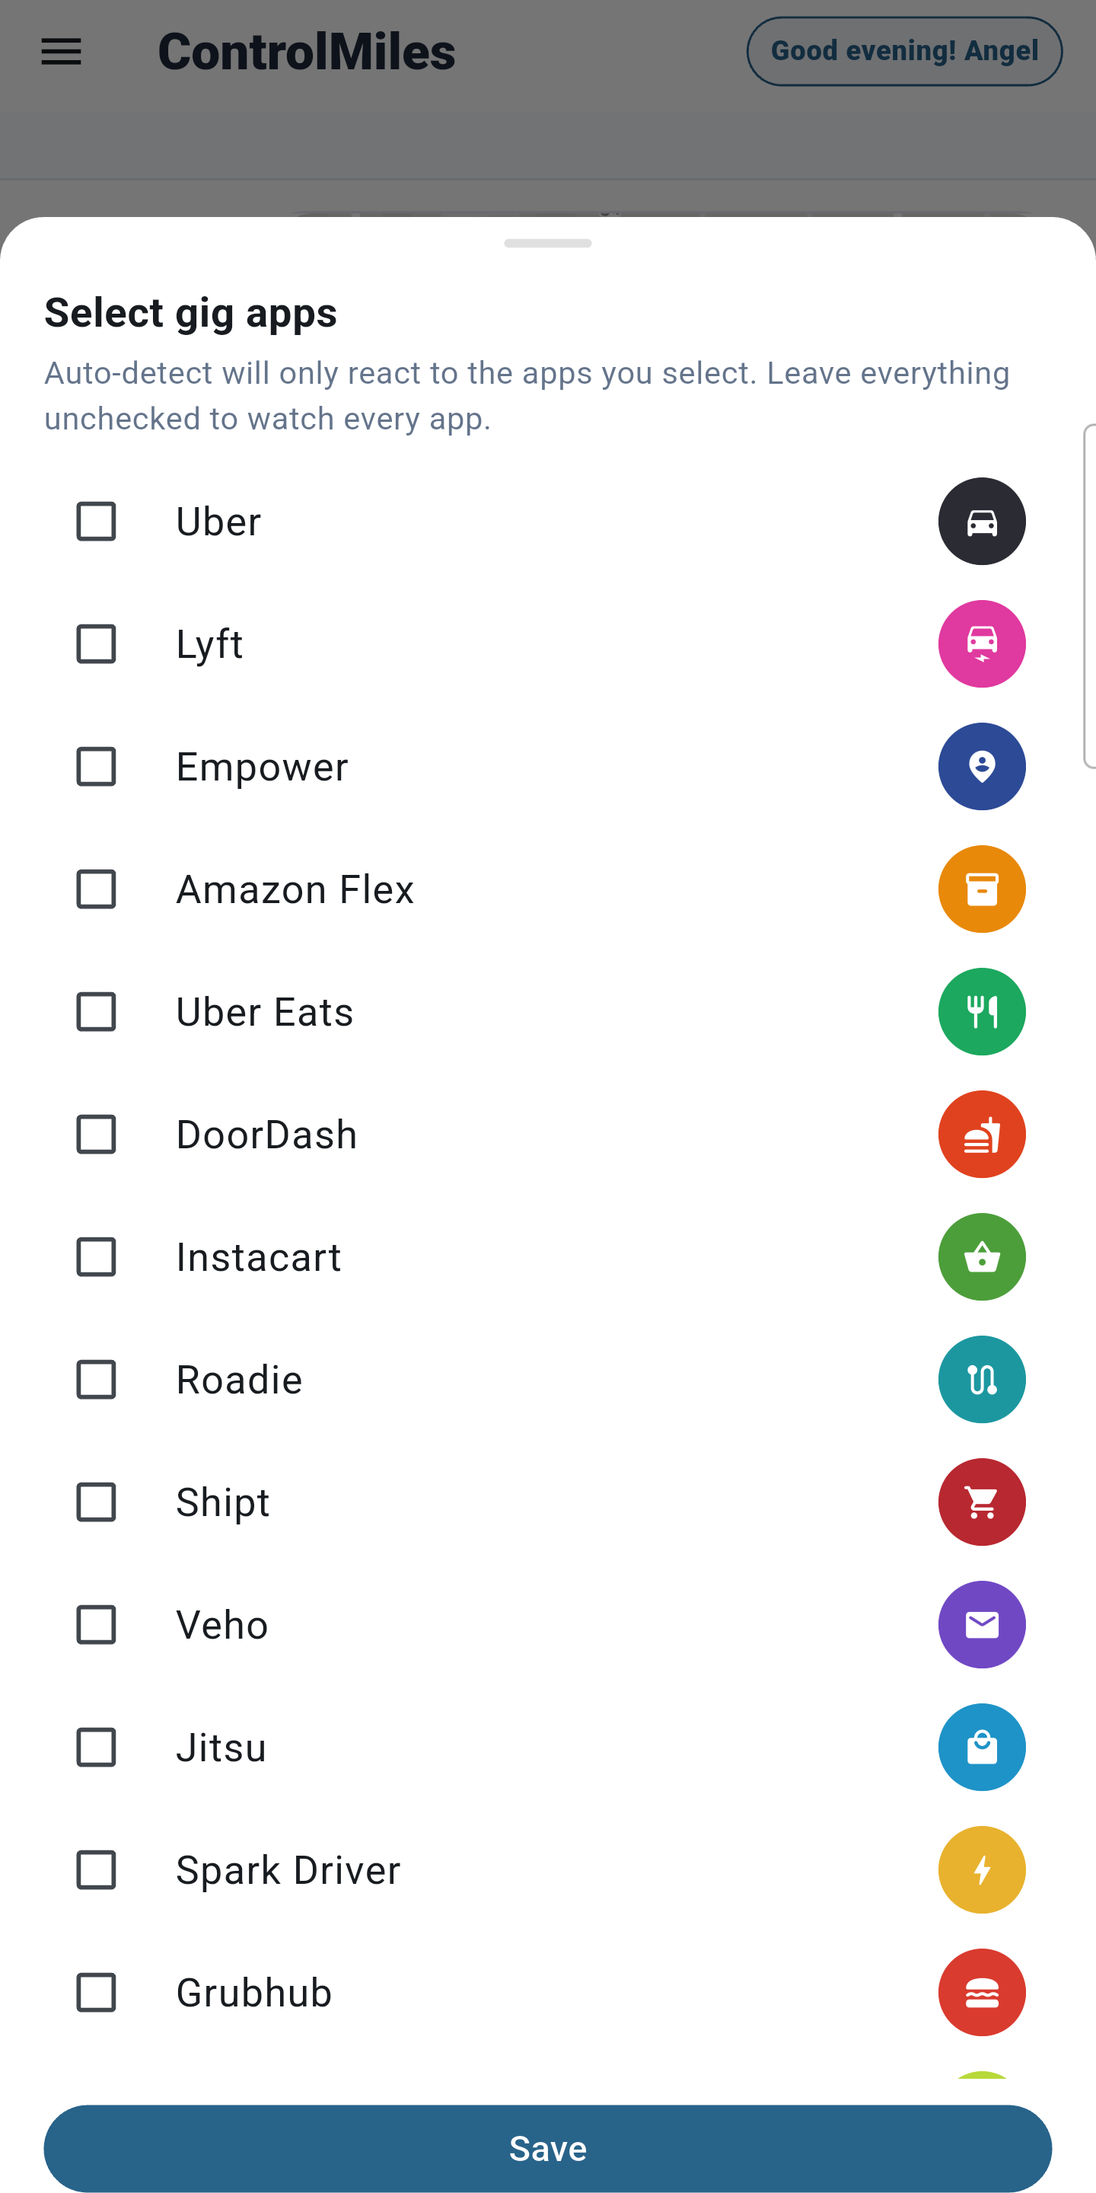
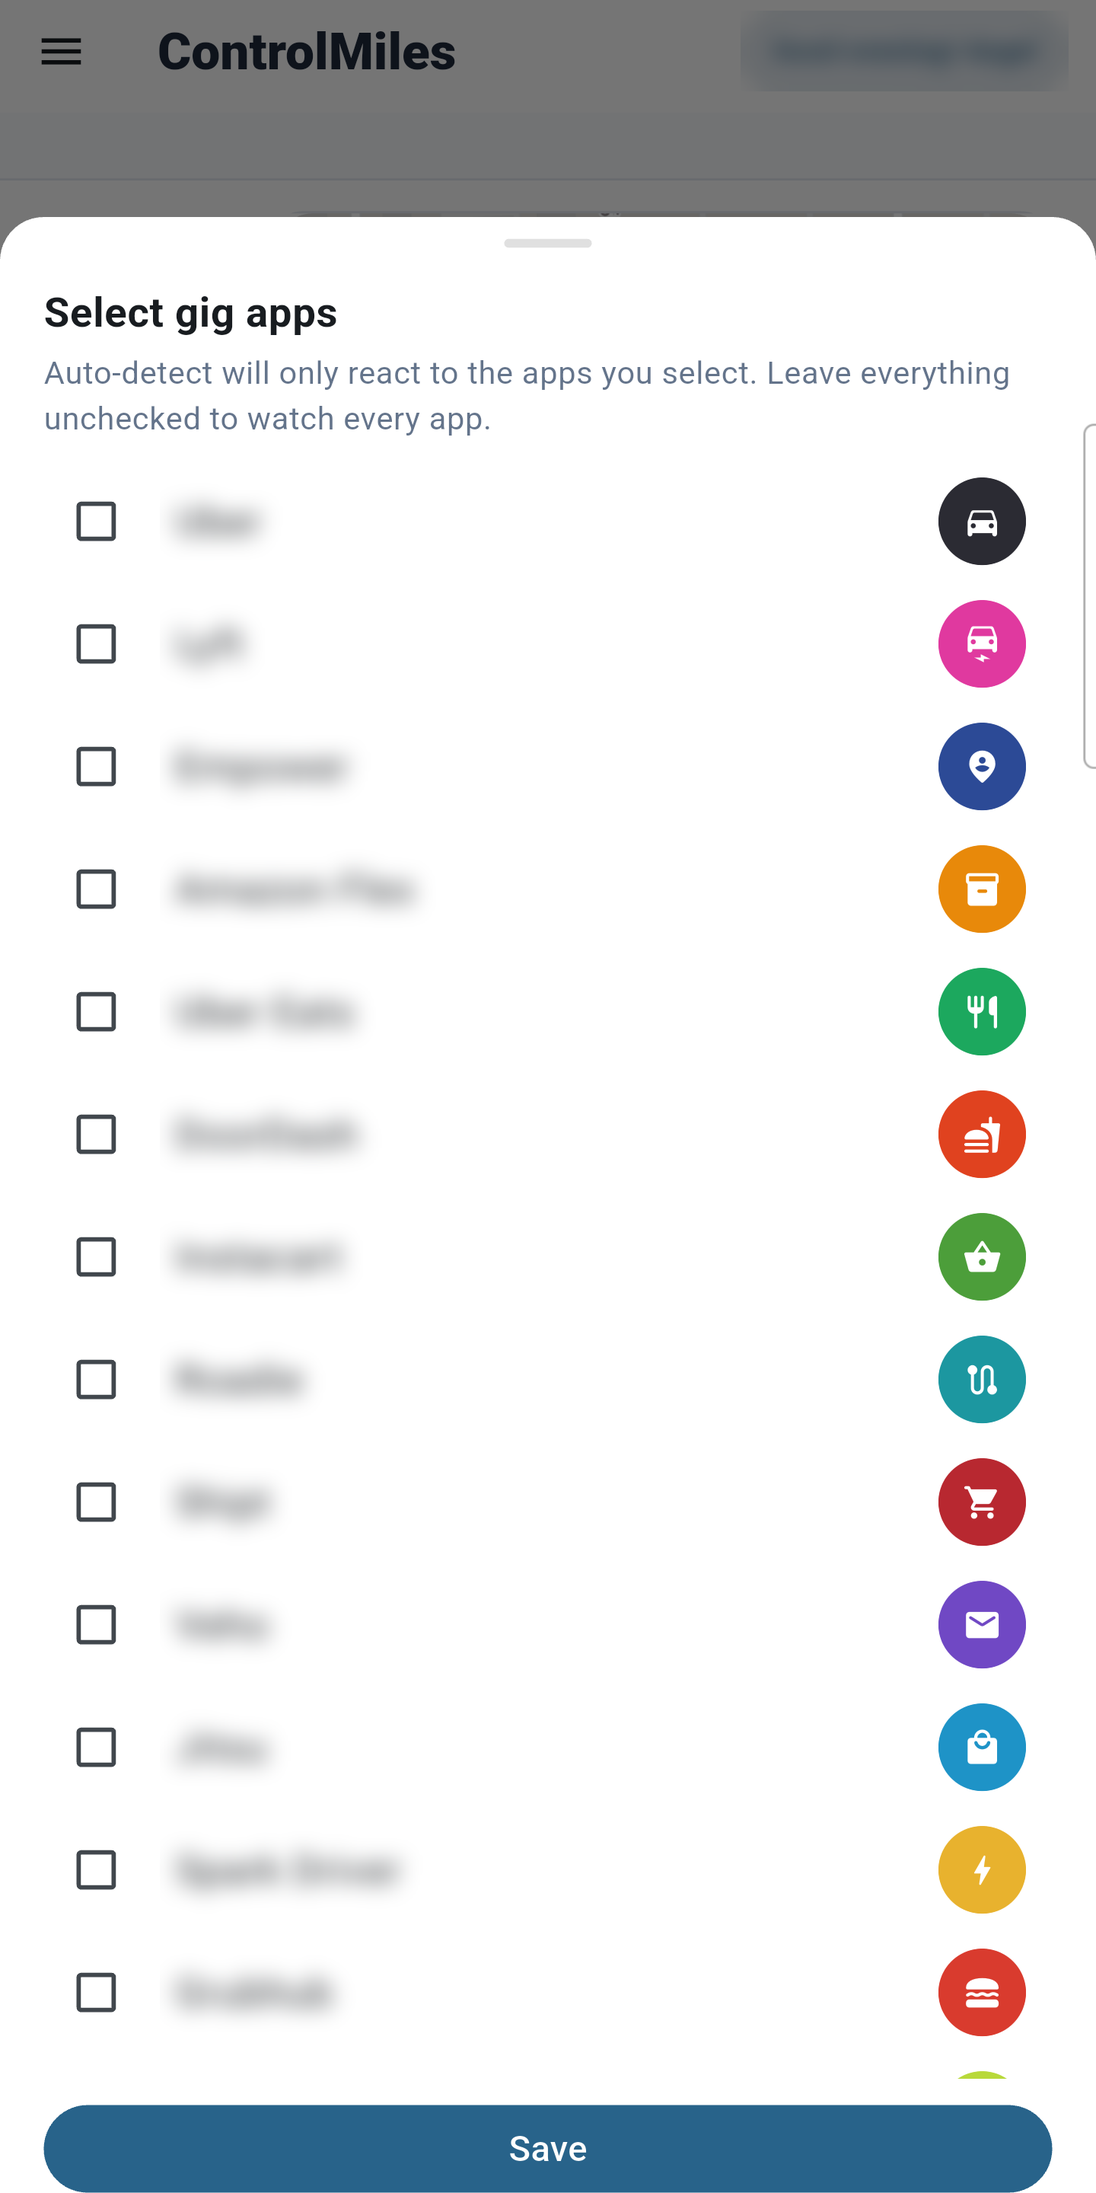
fix(report): odometer numbers agree (first reading vs current, odometer miles); 15-day trial on Basic and Premium (1.1.22+24); blurred Play screenshots

diff --git a/lib/services/report_service.dart b/lib/services/report_service.dart
@@ -71,6 +71,9 @@ class ReportService {
     // data predating this feature) falls back to the old per-session logic.
     double? periodCheckpointStart,
     double? periodCheckpointEnd,
+    // First odometer reading ever captured per vehicle (vehicle id ->
+    // value/date). The vehicles' own `odometer` is their CURRENT reading.
+    Map<String, ({double value, DateTime? at})> firstOdometerByVehicle = const {},
     // sessions.map_token per trip (2026-10-04): route images for the
     // "Trip routes" pages. Empty = no route pages.
     Map<String, String> mapTokens = const {},
@@ -209,7 +212,7 @@ class ReportService {
           _buildGlobalProfileSection(
               userName, userDisplayId, periodLabel, sortedSessions.length),
           pw.SizedBox(height: 24),
-          _buildVehicleInfo(vehiclesUsed),
+          _buildVehicleInfo(vehiclesUsed, firstOdometerByVehicle),
           pw.SizedBox(height: 24),
           _buildOdometerEvidence(
             totalMiles,
@@ -508,7 +511,10 @@ class ReportService {
   // es un solo vehículo; si el usuario cambió de vehículo activo dentro del
   // rango del reporte, se listan todos con su propio odómetro inicial.
   // ════════════════════════════════════════════════════════════
-  static pw.Widget _buildVehicleInfo(List<Vehicle> vehicles) {
+  static pw.Widget _buildVehicleInfo(
+    List<Vehicle> vehicles,
+    Map<String, ({double value, DateTime? at})> firstOdometerByVehicle,
+  ) {
     return pw.Column(
       crossAxisAlignment: pw.CrossAxisAlignment.start,
       children: [
@@ -533,7 +539,7 @@ class ReportService {
               children: [
                 for (var i = 0; i < vehicles.length; i++) ...[
                   if (i > 0) pw.Container(height: 0.5, color: PdfColors.grey300),
-                  _vehicleRow(vehicles[i]),
+                  _vehicleRow(vehicles[i], firstOdometerByVehicle[vehicles[i].id]),
                 ],
               ],
             ),
@@ -542,12 +548,21 @@ class ReportService {
     );
   }
 
-  static pw.Widget _vehicleRow(Vehicle vehicle) {
+  // BUG FIX (2026-10-05): this showed vehicles.odometer as "Starting
+  // odometer", but that column is updated with every reading -- it's the
+  // vehicle's CURRENT odometer (209,354 while ODOMETER EVIDENCE correctly
+  // started at 206,637). Now: the first reading ever captured in
+  // ControlMiles (with its date) and the current one, each labeled.
+  static pw.Widget _vehicleRow(Vehicle vehicle, ({double value, DateTime? at})? first) {
     final year = vehicle.year != null ? '${vehicle.year} ' : '';
     final name = vehicle.displayName.isEmpty ? '--' : vehicle.displayName;
-    final startOdo = vehicle.odometer != null
-        ? '${vehicle.odometer!.toStringAsFixed(1)} mi'
-        : '--';
+    final odoFmt = NumberFormat('#,##0.0');
+    final parts = <String>[
+      if (first != null)
+        'First odometer in ControlMiles: ${odoFmt.format(first.value)} mi'
+        '${first.at != null ? ' (${DateFormat('MM/dd/yyyy').format(first.at!.toLocal())})' : ''}',
+      if (vehicle.odometer != null) 'Current: ${odoFmt.format(vehicle.odometer!)} mi',
+    ];
 
     return pw.Padding(
       padding: const pw.EdgeInsets.symmetric(vertical: 10, horizontal: 12),
@@ -556,7 +571,7 @@ class ReportService {
         children: [
           pw.Text('$year$name',
               style: pw.TextStyle(fontSize: 11, fontWeight: pw.FontWeight.bold)),
-          pw.Text('Starting odometer (ControlMiles): $startOdo',
+          pw.Text(parts.isEmpty ? 'Odometer: --' : parts.join('   ·   '),
               style: const pw.TextStyle(fontSize: 9, color: PdfColors.grey600)),
         ],
       ),
@@ -576,11 +591,19 @@ class ReportService {
     double? periodCheckpointStart,
     double? periodCheckpointEnd,
   }) {
-    final start = (periodCheckpointStart ?? firstOdoSession?.startOdometerValue)
-            ?.toStringAsFixed(1) ?? '--';
-    final end   = (periodCheckpointEnd ?? lastOdoSession?.endOdometerValue)
-            ?.toStringAsFixed(1) ?? '--';
-    final total = totalMiles.toStringAsFixed(2);
+    // BUG FIX (2026-10-05): TOTAL showed the TRACKED trip miles ("units")
+    // between two odometer readings, which read as if the odometer moved
+    // 1,679 mi while START/END said 2,717. The odometer box now holds only
+    // odometer numbers (END - START, in mi); tracked miles stay in the
+    // Total Miles / business-use summaries below.
+    final startVal = periodCheckpointStart ?? firstOdoSession?.startOdometerValue;
+    final endVal = periodCheckpointEnd ?? lastOdoSession?.endOdometerValue;
+    final odoFmt = NumberFormat('#,##0.0');
+    final start = startVal != null ? odoFmt.format(startVal) : '--';
+    final end = endVal != null ? odoFmt.format(endVal) : '--';
+    final total = (startVal != null && endVal != null && endVal >= startVal)
+        ? odoFmt.format(endVal - startVal)
+        : '--';
 
     return pw.Column(
       crossAxisAlignment: pw.CrossAxisAlignment.start,
@@ -601,7 +624,7 @@ class ReportService {
             children: [
               _odoCell('START', start, isFirst: true),
               _odoCell('END',   end),
-              _odoCell('TOTAL', total),
+              _odoCell('ODOMETER MILES', total),
             ],
           ),
         ),
@@ -632,7 +655,7 @@ class ReportService {
                 style: pw.TextStyle(
                     fontSize: 18, fontWeight: pw.FontWeight.bold)),
             pw.SizedBox(height: 2),
-            pw.Text('units',
+            pw.Text('mi',
                 style: const pw.TextStyle(
                     fontSize: 8, color: PdfColors.grey500)),
           ],

diff --git a/lib/screens/reports_screen.dart b/lib/screens/reports_screen.dart
@@ -87,6 +87,10 @@ class _ReportsScreenState extends State<ReportsScreen> {
   // ya no se usa sigue siendo real evidencia del período reportado.
   List<Vehicle>                             _vehiclesUsed = [];
   double?                                   _periodCheckpointStart;
+  // First odometer reading ever captured per vehicle (2026-10-05): the
+  // vehicle's own `odometer` column is its CURRENT reading, so it can't be
+  // shown as the starting one.
+  Map<String, ({double value, DateTime? at})> _firstOdometerByVehicle = {};
   double?                                   _periodCheckpointEnd;
 
   // ── NUEVO: card Summary (total del día, pedido explícito) ──
@@ -300,6 +304,24 @@ class _ReportsScreenState extends State<ReportsScreen> {
         }
       }
 
+      final firstOdometerByVehicle = <String, ({double value, DateTime? at})>{};
+      if (vehicleIds.isNotEmpty) {
+        final firstRaw = await Supabase.instance.client
+            .from('vehicle_odometer_checkpoints')
+            .select('vehicle_id, week_start_date, start_odometer_value, start_captured_at')
+            .inFilter('vehicle_id', vehicleIds)
+            .not('start_odometer_value', 'is', null)
+            .order('week_start_date', ascending: true);
+        for (final row in firstRaw as List) {
+          final vid = row['vehicle_id'] as String;
+          if (firstOdometerByVehicle.containsKey(vid)) continue;
+          firstOdometerByVehicle[vid] = (
+            value: (row['start_odometer_value'] as num).toDouble(),
+            at: DateTime.tryParse((row['start_captured_at'] ?? row['week_start_date'] ?? '') as String),
+          );
+        }
+      }
+
       final periodMiles = sessions.fold<double>(
           0.0, (acc, s) => acc + s.totalMiles);
       final periodDurationSec = sessions.fold<int>(
@@ -313,6 +335,7 @@ class _ReportsScreenState extends State<ReportsScreen> {
           _vehiclesUsed = vehiclesUsed;
           _periodCheckpointStart = periodCheckpointStart;
           _periodCheckpointEnd = periodCheckpointEnd;
+          _firstOdometerByVehicle = firstOdometerByVehicle;
           _periodTotalMiles = periodMiles;
           _periodTotalDurationSec = periodDurationSec;
         });
@@ -414,6 +437,7 @@ class _ReportsScreenState extends State<ReportsScreen> {
         mileageMethod:     appState.mileageMethod,
         vehiclesUsed:      _vehiclesUsed,
         periodCheckpointStart: _periodCheckpointStart,
+        firstOdometerByVehicle: _firstOdometerByVehicle,
         periodCheckpointEnd:   _periodCheckpointEnd,
         mapTokens:         _mapTokens,
       );

diff --git a/lib/i18n/hi.dart b/lib/i18n/hi.dart
@@ -328,8 +328,8 @@ const Map<String, String> hiTexts = {
   'trial_expired': 'ट्रायल समाप्त',
   'subscription_active': 'सब्सक्रिप्शन सक्रिय',
   'subscription_required': 'सब्सक्रिप्शन आवश्यक है',
-  'premium_plan_description': 'ऑटोमैटिक डिटेक्शन और अन्य प्रीमियम सुविधाएँ अनलॉक करें। 5 वाहनों तक। 5-दिन का मुफ़्त ट्रायल शामिल है।',
-  'base_plan_description': 'मुख्य ControlMiles अनुभव। 1 वाहन।',
+  'premium_plan_description': "ऑटोमैटिक डिटेक्शन और अन्य प्रीमियम सुविधाएँ अनलॉक करें। 5 वाहनों तक। 15 दिन का मुफ़्त ट्रायल शामिल।",
+  'base_plan_description': "मुख्य ControlMiles अनुभव। 1 वाहन। 15 दिन का मुफ़्त ट्रायल शामिल।",
   'current_plan': 'वर्तमान प्लान',
   'started_plan': 'Started (मुफ़्त ट्रायल)',
   'started_plan_description': 'आपका 15-दिन का मुफ़्त ट्रायल। 1 वाहन।',

diff --git a/lib/i18n/am.dart b/lib/i18n/am.dart
@@ -314,8 +314,8 @@ const Map<String, String> amTexts = {
   'trial_expired': 'ሙከራ አልቋል',
   'subscription_active': 'ምዝገባ ንቁ ነው',
   'subscription_required': 'ምዝገባ ያስፈልጋል',
-  'premium_plan_description': 'ራስ-ሰር ማወቂያን እና ሌሎች ፕሪሚየም ባህሪያትን ይክፈቱ። እስከ 5 ተሽከርካሪዎች። የ5 ቀን ነፃ ሙከራን ያካትታል።',
-  'base_plan_description': 'መሠረታዊ የControlMiles ተሞክሮ። 1 ተሽከርካሪ።',
+  'premium_plan_description': "ራስ-ሰር ማወቂያን እና ሌሎች ፕሪሚየም ባህሪያትን ይክፈቱ። እስከ 5 ተሽከርካሪዎች። የ15 ቀን ነጻ ሙከራን ያካትታል።",
+  'base_plan_description': "መሠረታዊ የControlMiles ተሞክሮ። 1 ተሽከርካሪ። የ15 ቀን ነጻ ሙከራን ያካትታል።",
   'current_plan': 'የአሁኑ እቅድ',
   'started_plan': 'Started (ነፃ ሙከራ)',
   'started_plan_description': 'የ15 ቀን ነፃ ሙከራዎ። 1 ተሽከርካሪ።',

diff --git a/lib/i18n/ar.dart b/lib/i18n/ar.dart
@@ -332,8 +332,8 @@ const Map<String, String> arTexts = {
   'trial_expired': 'انتهت الفترة التجريبية',
   'subscription_active': 'الاشتراك نشط',
   'subscription_required': 'الاشتراك مطلوب',
-  'premium_plan_description': 'افتح الكشف التلقائي وميزات مميزة أخرى. حتى 5 مركبات. يشمل تجربة مجانية لمدة 5 أيام.',
-  'base_plan_description': 'تجربة ControlMiles الأساسية. مركبة واحدة.',
+  'premium_plan_description': "افتح الكشف التلقائي وميزات مميزة أخرى. حتى 5 مركبات. يشمل تجربة مجانية لمدة 15 يومًا.",
+  'base_plan_description': "تجربة ControlMiles الأساسية. مركبة واحدة. يشمل تجربة مجانية لمدة 15 يومًا.",
   'current_plan': 'الباقة الحالية',
   'started_plan': 'Started (تجربة مجانية)',
   'started_plan_description': 'تجربتك المجانية لمدة 15 يومًا. مركبة واحدة.',

diff --git a/lib/i18n/ja.dart b/lib/i18n/ja.dart
@@ -327,8 +327,8 @@ const Map<String, String> jaTexts = {
   'trial_expired': 'トライアル期間が終了しました',
   'subscription_active': 'サブスクリプション有効',
   'subscription_required': 'サブスクリプションが必要です',
-  'premium_plan_description': '自動検出やその他のプレミアム機能をアンロック。最大5台の車両。5日間の無料トライアル付き。',
-  'base_plan_description': 'ControlMilesのコア体験。車両1台。',
+  'premium_plan_description': "自動検出やその他のプレミアム機能をアンロック。最大5台の車両。15日間の無料トライアル付き。",
+  'base_plan_description': "ControlMilesのコア体験。車両1台。15日間の無料トライアル付き。",
   'current_plan': '現在のプラン',
   'started_plan': 'Started（無料トライアル）',
   'started_plan_description': '15日間の無料トライアル。車両1台。',

diff --git a/lib/i18n/de.dart b/lib/i18n/de.dart
@@ -356,8 +356,8 @@ const Map<String, String> deTexts = {
   'trial_expired': 'Testphase abgelaufen',
   'subscription_active': 'Abonnement aktiv',
   'subscription_required': 'Abonnement erforderlich',
-  'premium_plan_description': 'Schalte die automatische Erkennung und weitere Premium-Funktionen frei. Bis zu 5 Fahrzeuge. Beinhaltet eine 5-tägige kostenlose Testversion.',
-  'base_plan_description': 'Das ControlMiles-Kernerlebnis. 1 Fahrzeug.',
+  'premium_plan_description': "Schalte die automatische Erkennung und weitere Premium-Funktionen frei. Bis zu 5 Fahrzeuge. Beinhaltet eine 15-tägige kostenlose Testversion.",
+  'base_plan_description': "Das ControlMiles-Kernerlebnis. 1 Fahrzeug. Beinhaltet eine 15-tägige kostenlose Testversion.",
   'current_plan': 'Aktueller Plan',
   'started_plan': 'Started (kostenlose Testversion)',
   'started_plan_description': 'Deine 15-tägige kostenlose Testversion. 1 Fahrzeug.',

diff --git a/lib/i18n/es.dart b/lib/i18n/es.dart
@@ -503,8 +503,8 @@ const Map<String, String> esTexts = {
   'trial_expired': 'Prueba expirada',
   'subscription_active': 'Suscripción activa',
   'subscription_required': 'Se requiere suscripción',
-  'premium_plan_description': 'Desbloquea la Detección Automática y otras funciones premium. Hasta 5 vehículos. Incluye una prueba gratuita de 5 días.',
-  'base_plan_description': 'La experiencia principal de ControlMiles. 1 vehículo.',
+  'premium_plan_description': "Desbloquea la Detección Automática y otras funciones premium. Hasta 5 vehículos. Incluye una prueba gratuita de 15 días.",
+  'base_plan_description': "La experiencia principal de ControlMiles. 1 vehículo. Incluye una prueba gratuita de 15 días.",
   'current_plan': 'Plan actual',
   'started_plan': 'Started (prueba gratis)',
   'started_plan_description': 'Tu prueba gratuita de 15 días. 1 vehículo.',

diff --git a/lib/i18n/fr.dart b/lib/i18n/fr.dart
@@ -364,8 +364,8 @@ const Map<String, String> frTexts = {
   'trial_expired': 'Essai expiré',
   'subscription_active': 'Abonnement actif',
   'subscription_required': 'Abonnement requis',
-  'premium_plan_description': 'Débloquez la Détection Automatique et d\'autres fonctionnalités premium. Jusqu\'à 5 véhicules. Inclut un essai gratuit de 5 jours.',
-  'base_plan_description': 'L\'expérience ControlMiles de base. 1 véhicule.',
+  'premium_plan_description': "Débloquez la Détection Automatique et d'autres fonctionnalités premium. Jusqu'à 5 véhicules. Inclut un essai gratuit de 15 jours.",
+  'base_plan_description': "L'expérience ControlMiles de base. 1 véhicule. Inclut un essai gratuit de 15 jours.",
   'current_plan': 'Forfait actuel',
   'started_plan': 'Started (essai gratuit)',
   'started_plan_description': 'Votre essai gratuit de 15 jours. 1 véhicule.',

diff --git a/lib/i18n/pt.dart b/lib/i18n/pt.dart
@@ -356,8 +356,8 @@ const Map<String, String> ptTexts = {
   'trial_expired': 'Teste expirado',
   'subscription_active': 'Assinatura ativa',
   'subscription_required': 'Assinatura necessária',
-  'premium_plan_description': 'Desbloqueie a Detecção Automática e outros recursos premium. Até 5 veículos. Inclui um teste grátis de 5 dias.',
-  'base_plan_description': 'A experiência principal do ControlMiles. 1 veículo.',
+  'premium_plan_description': "Desbloqueie a Detecção Automática e outros recursos premium. Até 5 veículos. Inclui um teste grátis de 15 dias.",
+  'base_plan_description': "A experiência principal do ControlMiles. 1 veículo. Inclui um teste grátis de 15 dias.",
   'current_plan': 'Plano atual',
   'started_plan': 'Started (teste grátis)',
   'started_plan_description': 'Seu teste grátis de 15 dias. 1 veículo.',

diff --git a/lib/i18n/ko.dart b/lib/i18n/ko.dart
@@ -328,8 +328,8 @@ const Map<String, String> koTexts = {
   'trial_expired': '체험 기간 만료',
   'subscription_active': '구독 활성',
   'subscription_required': '구독이 필요합니다',
-  'premium_plan_description': '자동 감지 및 기타 프리미엄 기능 잠금 해제. 최대 5대 차량. 5일 무료 체험 포함.',
-  'base_plan_description': 'ControlMiles 핵심 경험. 차량 1대.',
+  'premium_plan_description': "자동 감지 및 기타 프리미엄 기능 잠금 해제. 최대 5대 차량. 15일 무료 체험 포함.",
+  'base_plan_description': "ControlMiles 핵심 경험. 차량 1대. 15일 무료 체험 포함.",
   'current_plan': '현재 플랜',
   'started_plan': 'Started (무료 체험)',
   'started_plan_description': '15일 무료 체험. 차량 1대.',

diff --git a/lib/i18n/en.dart b/lib/i18n/en.dart
@@ -513,8 +513,8 @@ const Map<String, String> enTexts = {
   'trial_expired': 'Trial expired',
   'subscription_active': 'Subscription active',
   'subscription_required': 'Subscription required',
-  'premium_plan_description': 'Unlock Automatic Detection and other premium features. Up to 5 vehicles. Includes a 5-day free trial.',
-  'base_plan_description': 'The core ControlMiles experience. 1 vehicle.',
+  'premium_plan_description': "Unlock Automatic Detection and other premium features. Up to 5 vehicles. Includes a 15-day free trial.",
+  'base_plan_description': "The core ControlMiles experience. 1 vehicle. Includes a 15-day free trial.",
   'current_plan': 'Current plan',
   'started_plan': 'Started (free trial)',
   'started_plan_description': 'Your 15-day free trial. 1 vehicle.',
